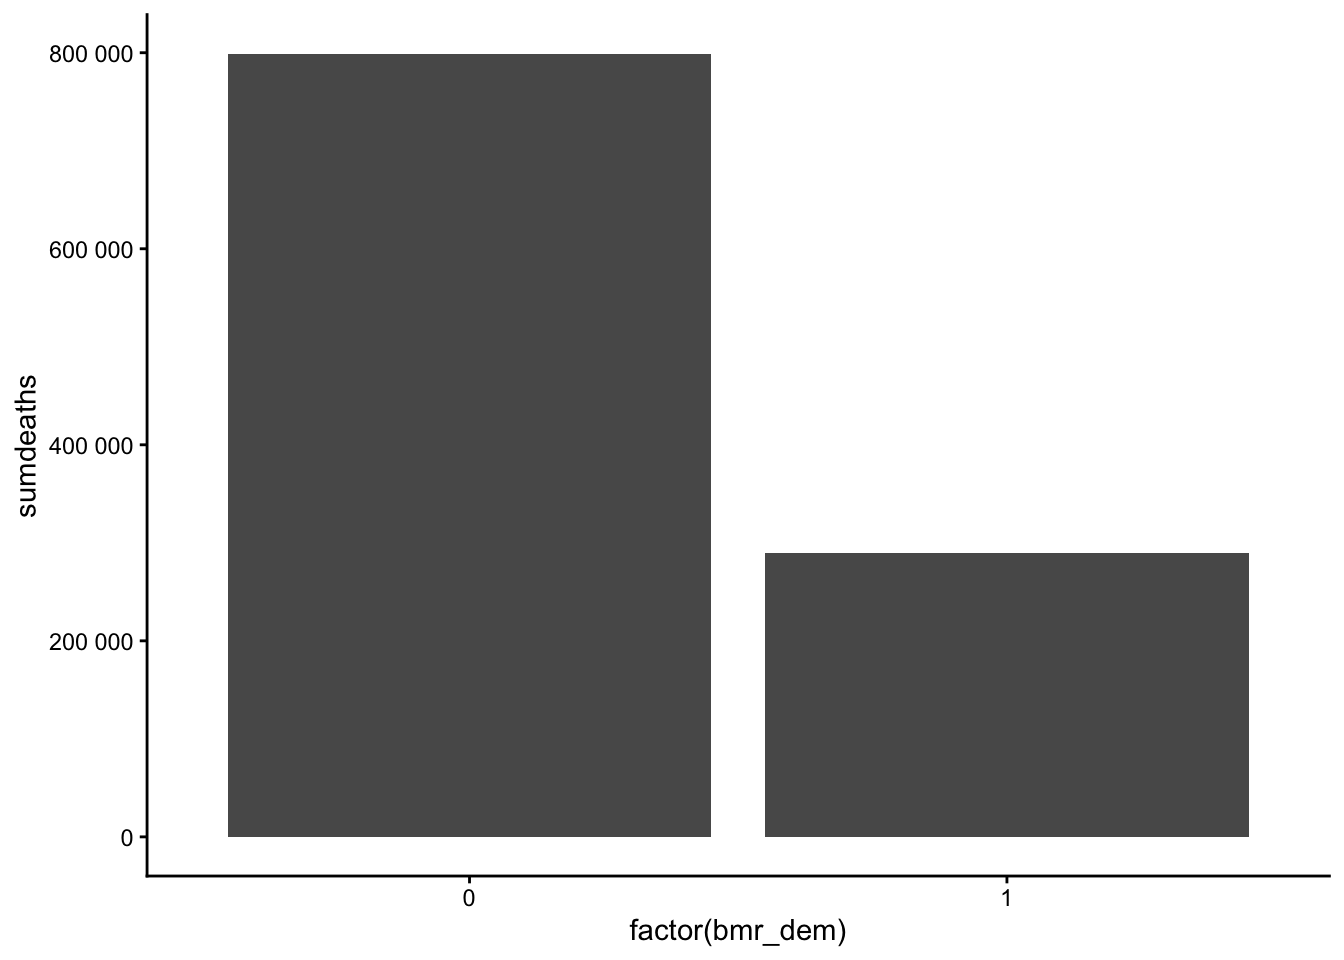
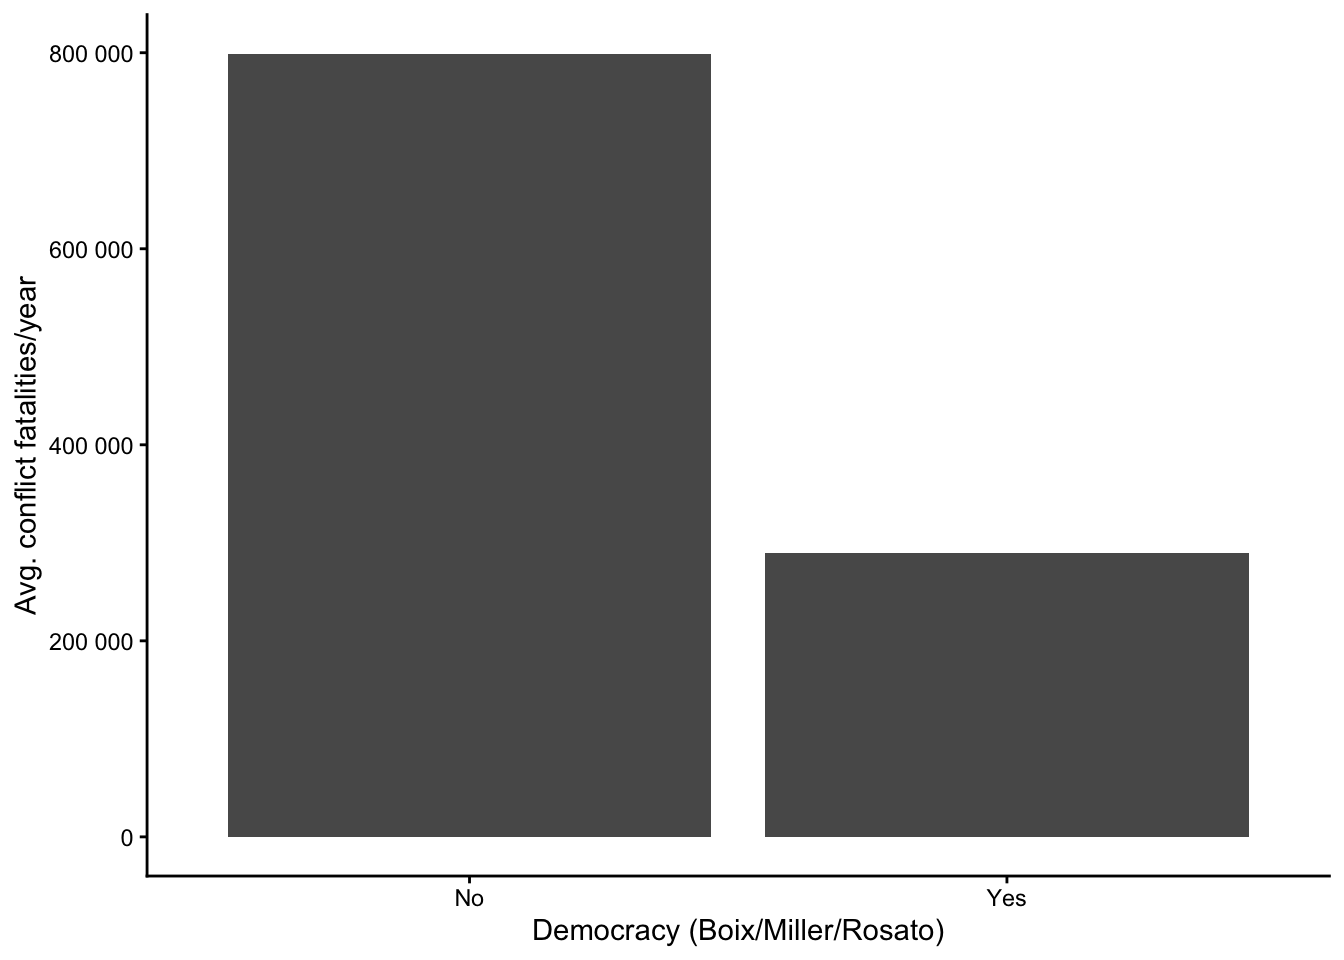
now correct render of merge post

Changed region(s): [[0.4062, 0.9375, 0.6875, 1.0], [0.0, 0.2812, 0.0312, 0.6562]]

diff --git a/docs/posts/merging/index.html b/docs/posts/merging/index.html
@@ -7,7 +7,7 @@
 <meta name="viewport" content="width=device-width, initial-scale=1.0, user-scalable=yes">
 
 <meta name="author" content="Carlo Knotz">
-<meta name="dcterms.date" content="2025-06-15">
+<meta name="dcterms.date" content="2025-10-10">
 
 <title>Merging macro-level data – Testing big ideas with simple methods</title>
 <style>
@@ -356,7 +356,7 @@ div.csl-indent {
       <div>
       <div class="quarto-title-meta-heading">Published</div>
       <div class="quarto-title-meta-contents">
-        <p class="date">June 15, 2025</p>
+        <p class="date">October 10, 2025</p>
       </div>
     </div>
     
@@ -882,7 +882,10 @@ div.csl-indent {
 <span id="cb59-4"><a href="#cb59-4" aria-hidden="true" tabindex="-1"></a>  <span class="fu">drop_na</span>(bmr_dem) <span class="sc">%&gt;%</span> </span>
 <span id="cb59-5"><a href="#cb59-5" aria-hidden="true" tabindex="-1"></a>  <span class="fu">ggplot</span>(<span class="fu">aes</span>(<span class="at">x =</span> <span class="fu">factor</span>(bmr_dem), <span class="at">y =</span> sumdeaths)) <span class="sc">+</span></span>
 <span id="cb59-6"><a href="#cb59-6" aria-hidden="true" tabindex="-1"></a>    <span class="fu">geom_col</span>() <span class="sc">+</span></span>
-<span id="cb59-7"><a href="#cb59-7" aria-hidden="true" tabindex="-1"></a>    <span class="fu">scale_y_continuous</span>(<span class="at">labels =</span> scales<span class="sc">::</span><span class="fu">label_number</span>())</span></code><button title="Copy to Clipboard" class="code-copy-button"><i class="bi"></i></button></pre></div>
+<span id="cb59-7"><a href="#cb59-7" aria-hidden="true" tabindex="-1"></a>    <span class="fu">scale_y_continuous</span>(<span class="at">labels =</span> scales<span class="sc">::</span><span class="fu">label_number</span>()) <span class="sc">+</span></span>
+<span id="cb59-8"><a href="#cb59-8" aria-hidden="true" tabindex="-1"></a>    <span class="fu">scale_x_discrete</span>(<span class="at">labels =</span> <span class="fu">c</span>(<span class="st">"0"</span> <span class="ot">=</span> <span class="st">"No"</span>, <span class="st">"1"</span> <span class="ot">=</span> <span class="st">"Yes"</span>)) <span class="sc">+</span></span>
+<span id="cb59-9"><a href="#cb59-9" aria-hidden="true" tabindex="-1"></a>    <span class="fu">labs</span>( <span class="at">x =</span> <span class="st">"Democracy (Boix/Miller/Rosato)"</span>,</span>
+<span id="cb59-10"><a href="#cb59-10" aria-hidden="true" tabindex="-1"></a>          <span class="at">y =</span> <span class="st">"Avg. conflict fatalities/year"</span>)</span></code><button title="Copy to Clipboard" class="code-copy-button"><i class="bi"></i></button></pre></div>
 <div class="cell-output-display">
 <div>
 <figure class="figure">
